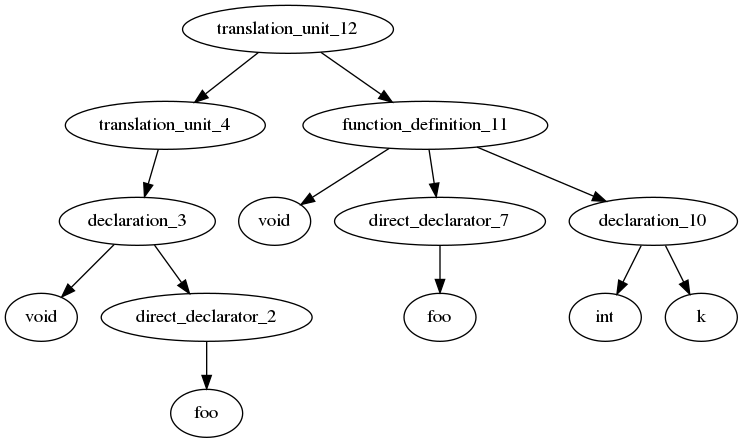
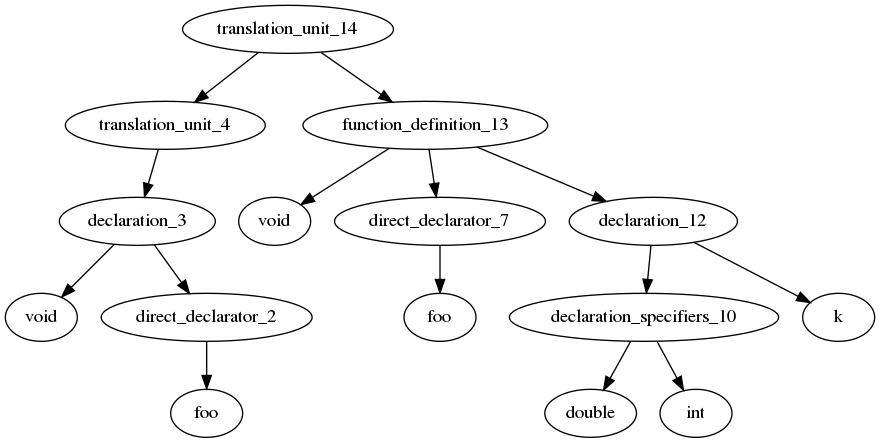
Added changes from after class meeting

diff --git a/src/tree/typeNode.h b/src/tree/typeNode.h
@@ -11,11 +11,10 @@ public:
 	void traverse_to_file(FILE*);
 	void ast_to_3ac(FILE*);
 
+	vector<nodeDataType> getType();
+protected:
 	// parseTypes parse types in children, return types of variables
 	vector<nodeDataType> parseTypes();
-	void typeNodeError();
-
-protected:
 	int ticketNumber;
 };
 

diff --git a/src/tree/typeNode.cpp b/src/tree/typeNode.cpp
@@ -62,12 +62,3 @@ vector<nodeDataType> TypeNode::parseTypes()
 	cout << children.size() << endl;
 	cout << "(a)" << endl;
 }
-
-/**
- * @brief Called to throw error in types TODO
- * 
- */
-void TypeNode::typeNodeError()
-{
-
-}

diff --git a/src/symboltable.h b/src/symboltable.h
@@ -72,6 +72,7 @@ struct Node {
 	int lineNumber;
 	int colNumber;
 	enum DataType type;
+	bool isFunction;
 	// Vector containing the types of the node
 	vector<nodeDataType> types;
 	int ntype = 1;

diff --git a/testCases/symbolTable/st_func.c b/testCases/symbolTable/st_func.c
@@ -4,6 +4,8 @@
  * @brief Test that a simple function lookup works
  */
 void foo();
+
 void foo() {
-	int k;
+	double int k;
+	!!D
 }
